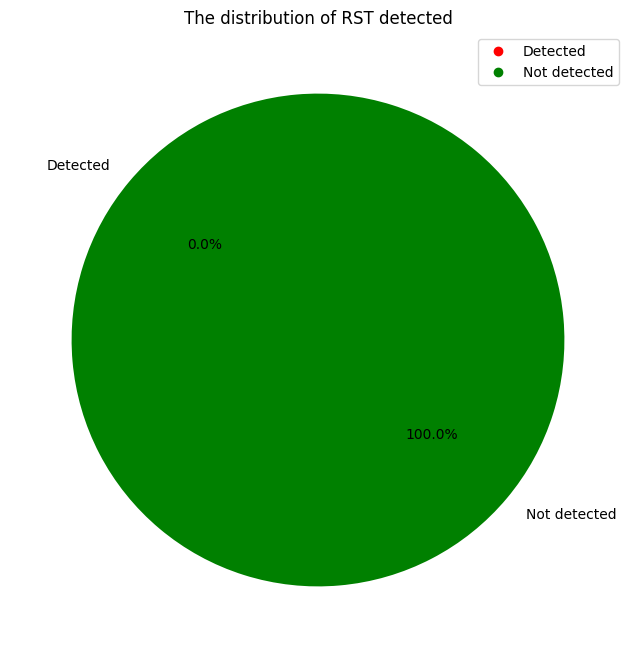
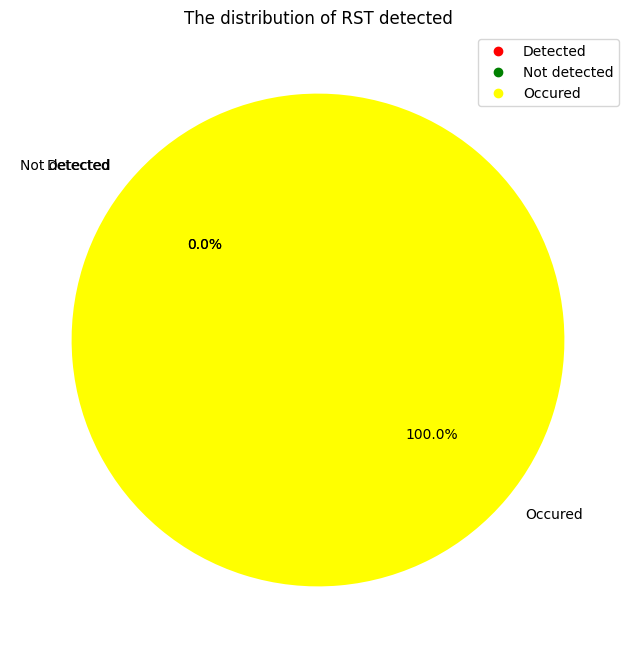
Finished the graph

diff --git a/src/Database/Graph/GFWLocationPlot.py b/src/Database/Graph/GFWLocationPlot.py
@@ -25,7 +25,8 @@ logger = logging.getLogger(__name__)
 # Merged_db constants
 GFWLocation = MongoDBHandler(Merged_db["TraceRouteResult"])
 merge_db_2024_Nov_GFWL = MongoDBHandler(Merged_db["2024_Nov_GFWL"])
-merge_db_2025_Jan_GFWL = MongoDBHandler(Merged_db["2025_GFWL"])
+adc_db_2025_GFWL = MongoDBHandler(
+    ADC_db["ChinaMobile-GFWLocation-2025-January"])
 
 
 def ip_hops_core_path(destination_db,
@@ -328,27 +329,42 @@ def plot_dst_distribution(destination_db, output_folder, use_ipv4_only=False):
 def plot_rst_detect(destination_db, output_folder):
   """
   1. 抓取目标数据库中的rst_detected字段, 统计出现次数, 并绘制直方图.
-  2. 如果数组为空则为Not detected, 如果不为空则为Detected.
+  2. 如果数组为空或者只有False则为Not detected, 如果只有True则为Detected, 如果即有True也有False则为Occured.
   """
-  query = {"rst_detected": {"$exists": True}}
-  cursor = destination_db.find(query, {"rst_detected": 1})
+  query = {
+      "$or": [{
+          "rst_detected": {
+              "$exists": True
+          }
+      }, {
+          "RST Detected": {
+              "$exists": True
+          }
+      }]
+  }
+  cursor = destination_db.find(query, {"rst_detected": 1, "RST Detected": 1})
   rst_detected = 0
   not_detected = 0
+  occured = 0
   for doc in cursor:
-    if doc.get('rst_detected'):
+    rst_values = doc.get('rst_detected') or doc.get('RST Detected')
+    if not rst_values or all(val is False for val in rst_values):
+      not_detected += 1
+    elif all(val is True for val in rst_values):
       rst_detected += 1
     else:
-      not_detected += 1
+      occured += 1
+
   # 绘制饼图
   plt.figure(figsize=(8, 8))
-  plt.pie([rst_detected, not_detected],
-          labels=['Detected', 'Not detected'],
-          colors=['red', 'green'],
+  plt.pie([rst_detected, not_detected, occured],
+          labels=['Detected', 'Not detected', 'Occured'],
+          colors=['red', 'green', 'yellow'],
           autopct='%1.1f%%',
           startangle=140)
   plt.title("The distribution of RST detected")
 
-  # 绘制颜色图例，红色为检测到，绿色为未检测到
+  # 绘制颜色图例，红色为检测到，绿色为未检测到，黄色为发生过
   plt.legend(handles=[
       mlines.Line2D([], [],
                     color='red',
@@ -358,6 +374,11 @@ def plot_rst_detect(destination_db, output_folder):
       mlines.Line2D([], [],
                     color='green',
                     label='Not detected',
+                    marker='o',
+                    linestyle='None'),
+      mlines.Line2D([], [],
+                    color='yellow',
+                    label='Occured',
                     marker='o',
                     linestyle='None')
   ],
@@ -389,15 +410,17 @@ if __name__ == '__main__':
   ip_hops_core_path(merge_db_2024_Nov_GFWL,
                     f'{output_folder}/2024-11',
                     use_ipv4_only=True)
-  # ip_hops_core_path(adc_db_2025_Jan_GFWL, f'{output_folder}/2025-1')
+  ip_hops_core_path(adc_db_2025_GFWL,
+                    f'{output_folder}/2025-1',
+                    use_ipv4_only=True)
 
   plot_dst_distribution(GFWLocation, f'{output_folder}/2024-9')
   plot_dst_distribution(merge_db_2024_Nov_GFWL,
                         f'{output_folder}/2024-11',
                         use_ipv4_only=True)
-  plot_dst_distribution(merge_db_2025_Jan_GFWL,
+  plot_dst_distribution(adc_db_2025_GFWL,
                         f'{output_folder}/2025-1',
                         use_ipv4_only=True)
 
   plot_rst_detect(merge_db_2024_Nov_GFWL, f'{output_folder}/2024-11')
-  plot_rst_detect(merge_db_2025_Jan_GFWL, f'{output_folder}/2025-1')
+  plot_rst_detect(adc_db_2025_GFWL, f'{output_folder}/2025-1')
